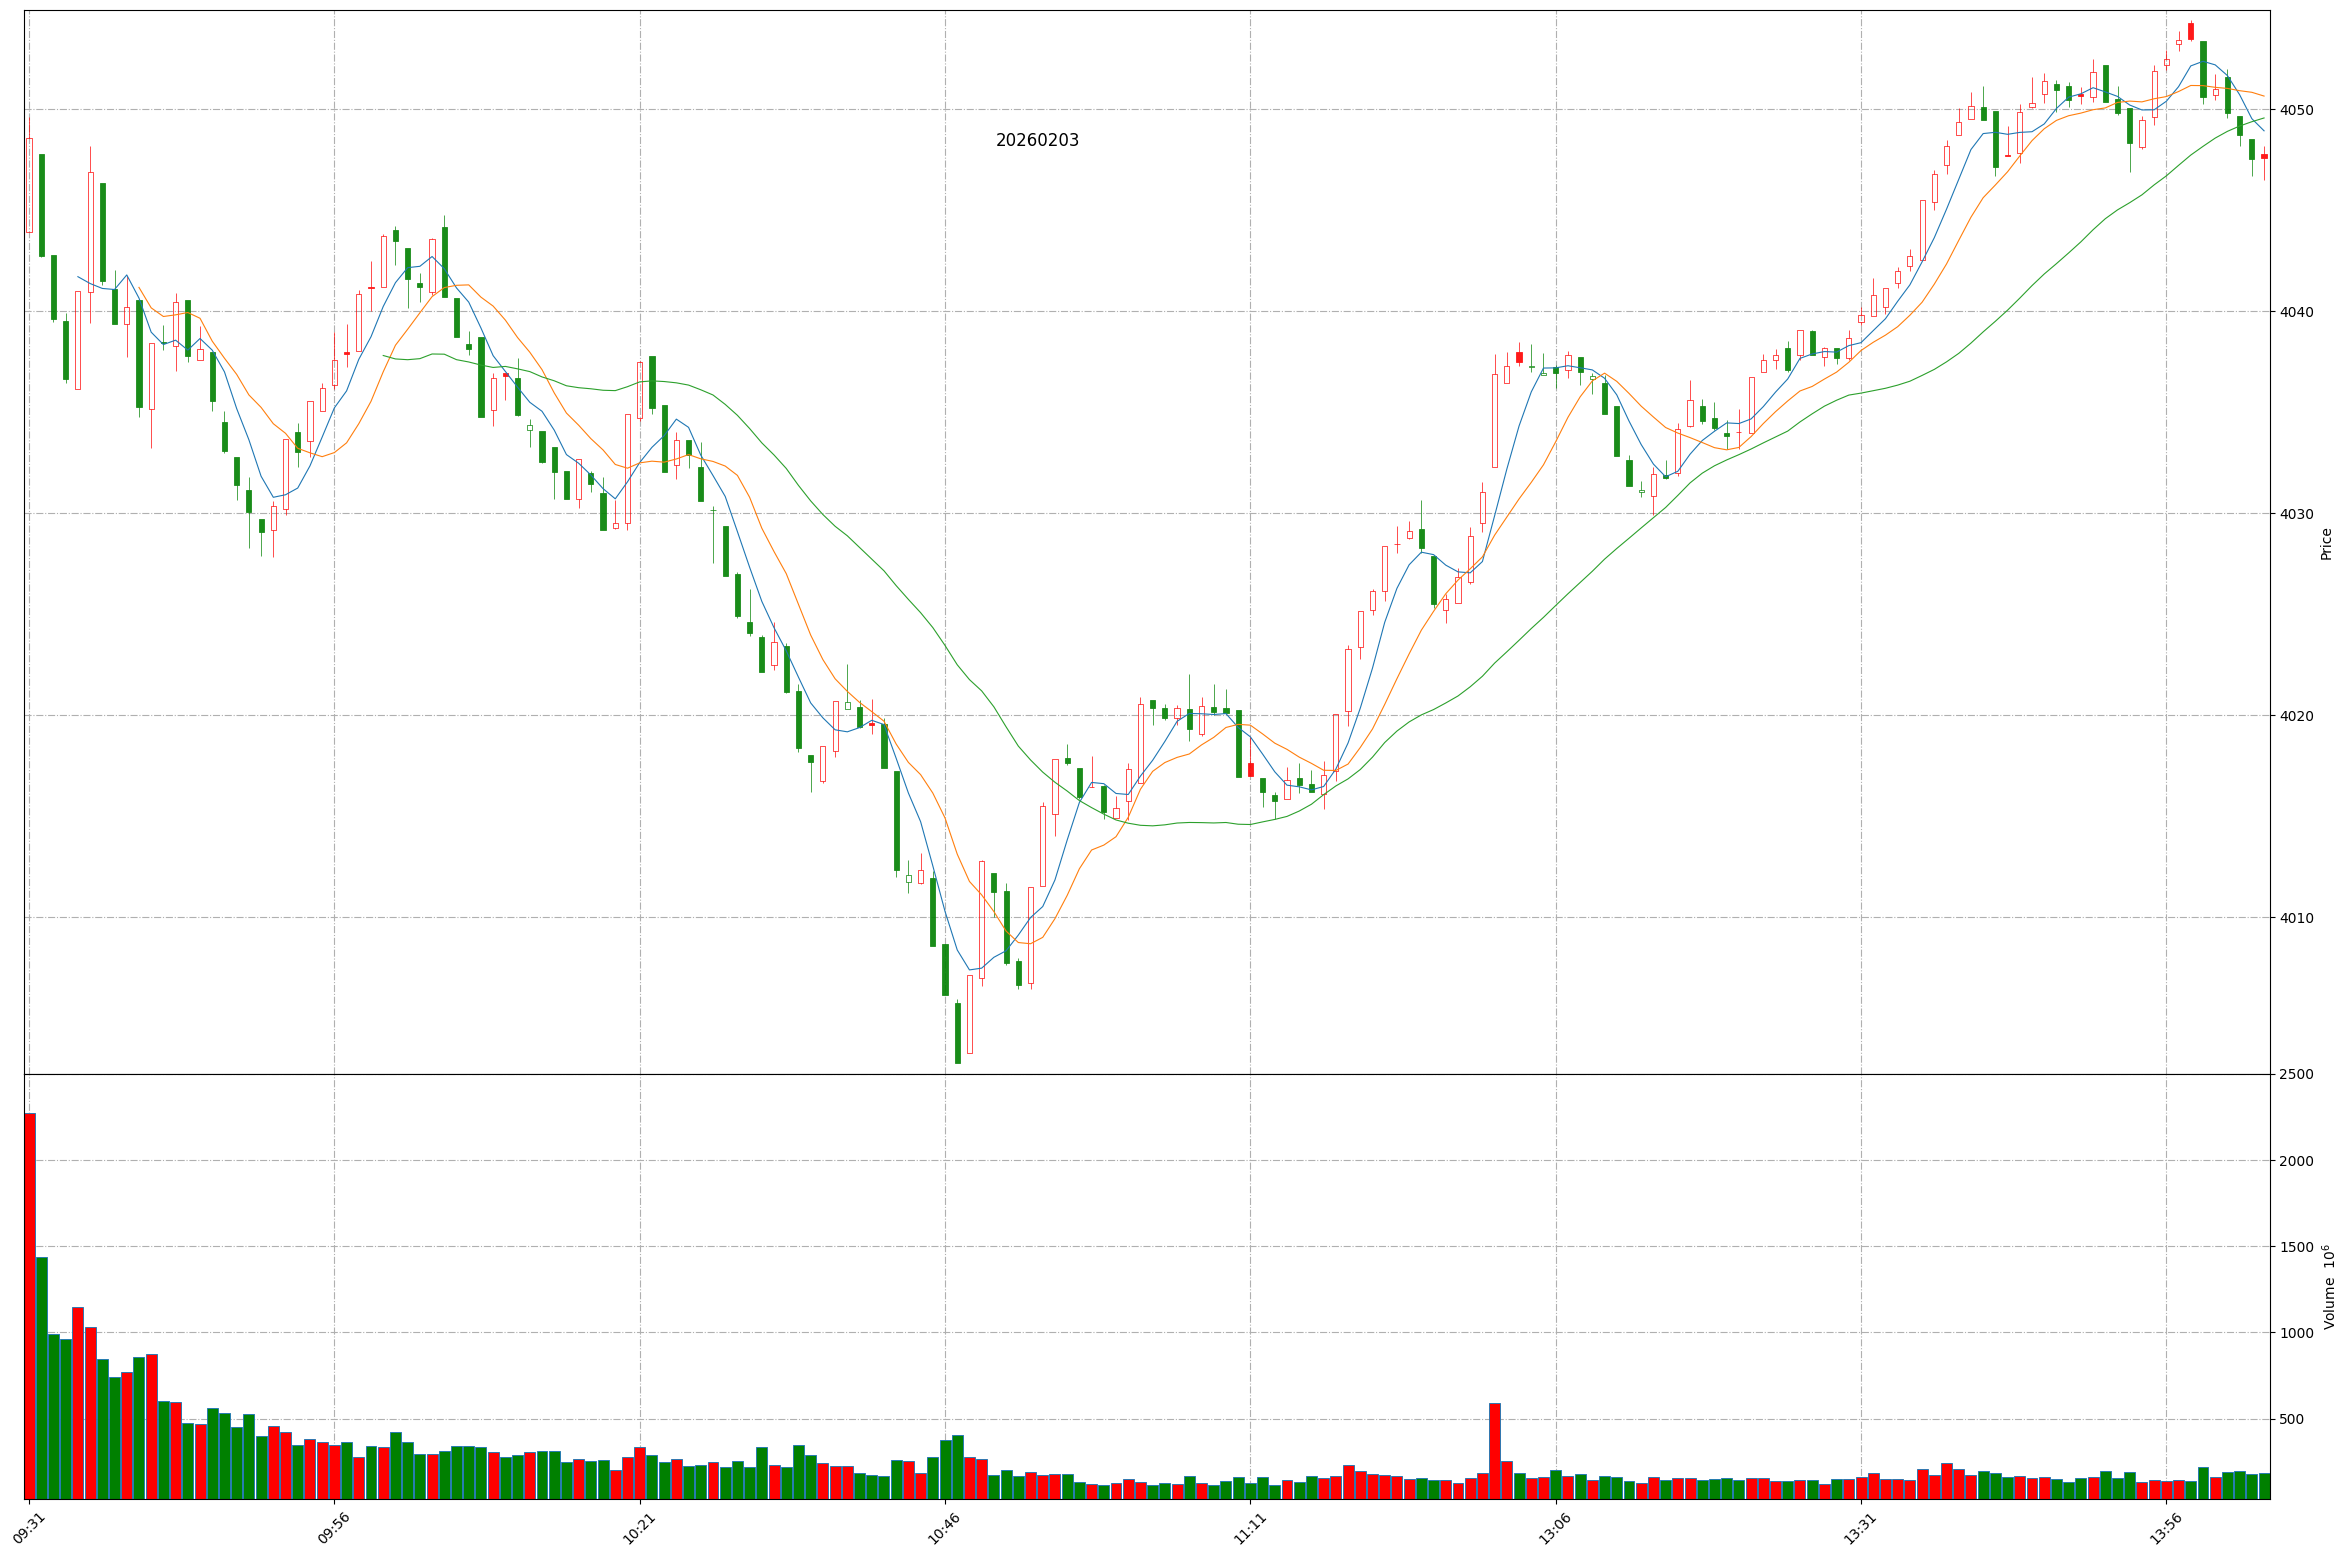
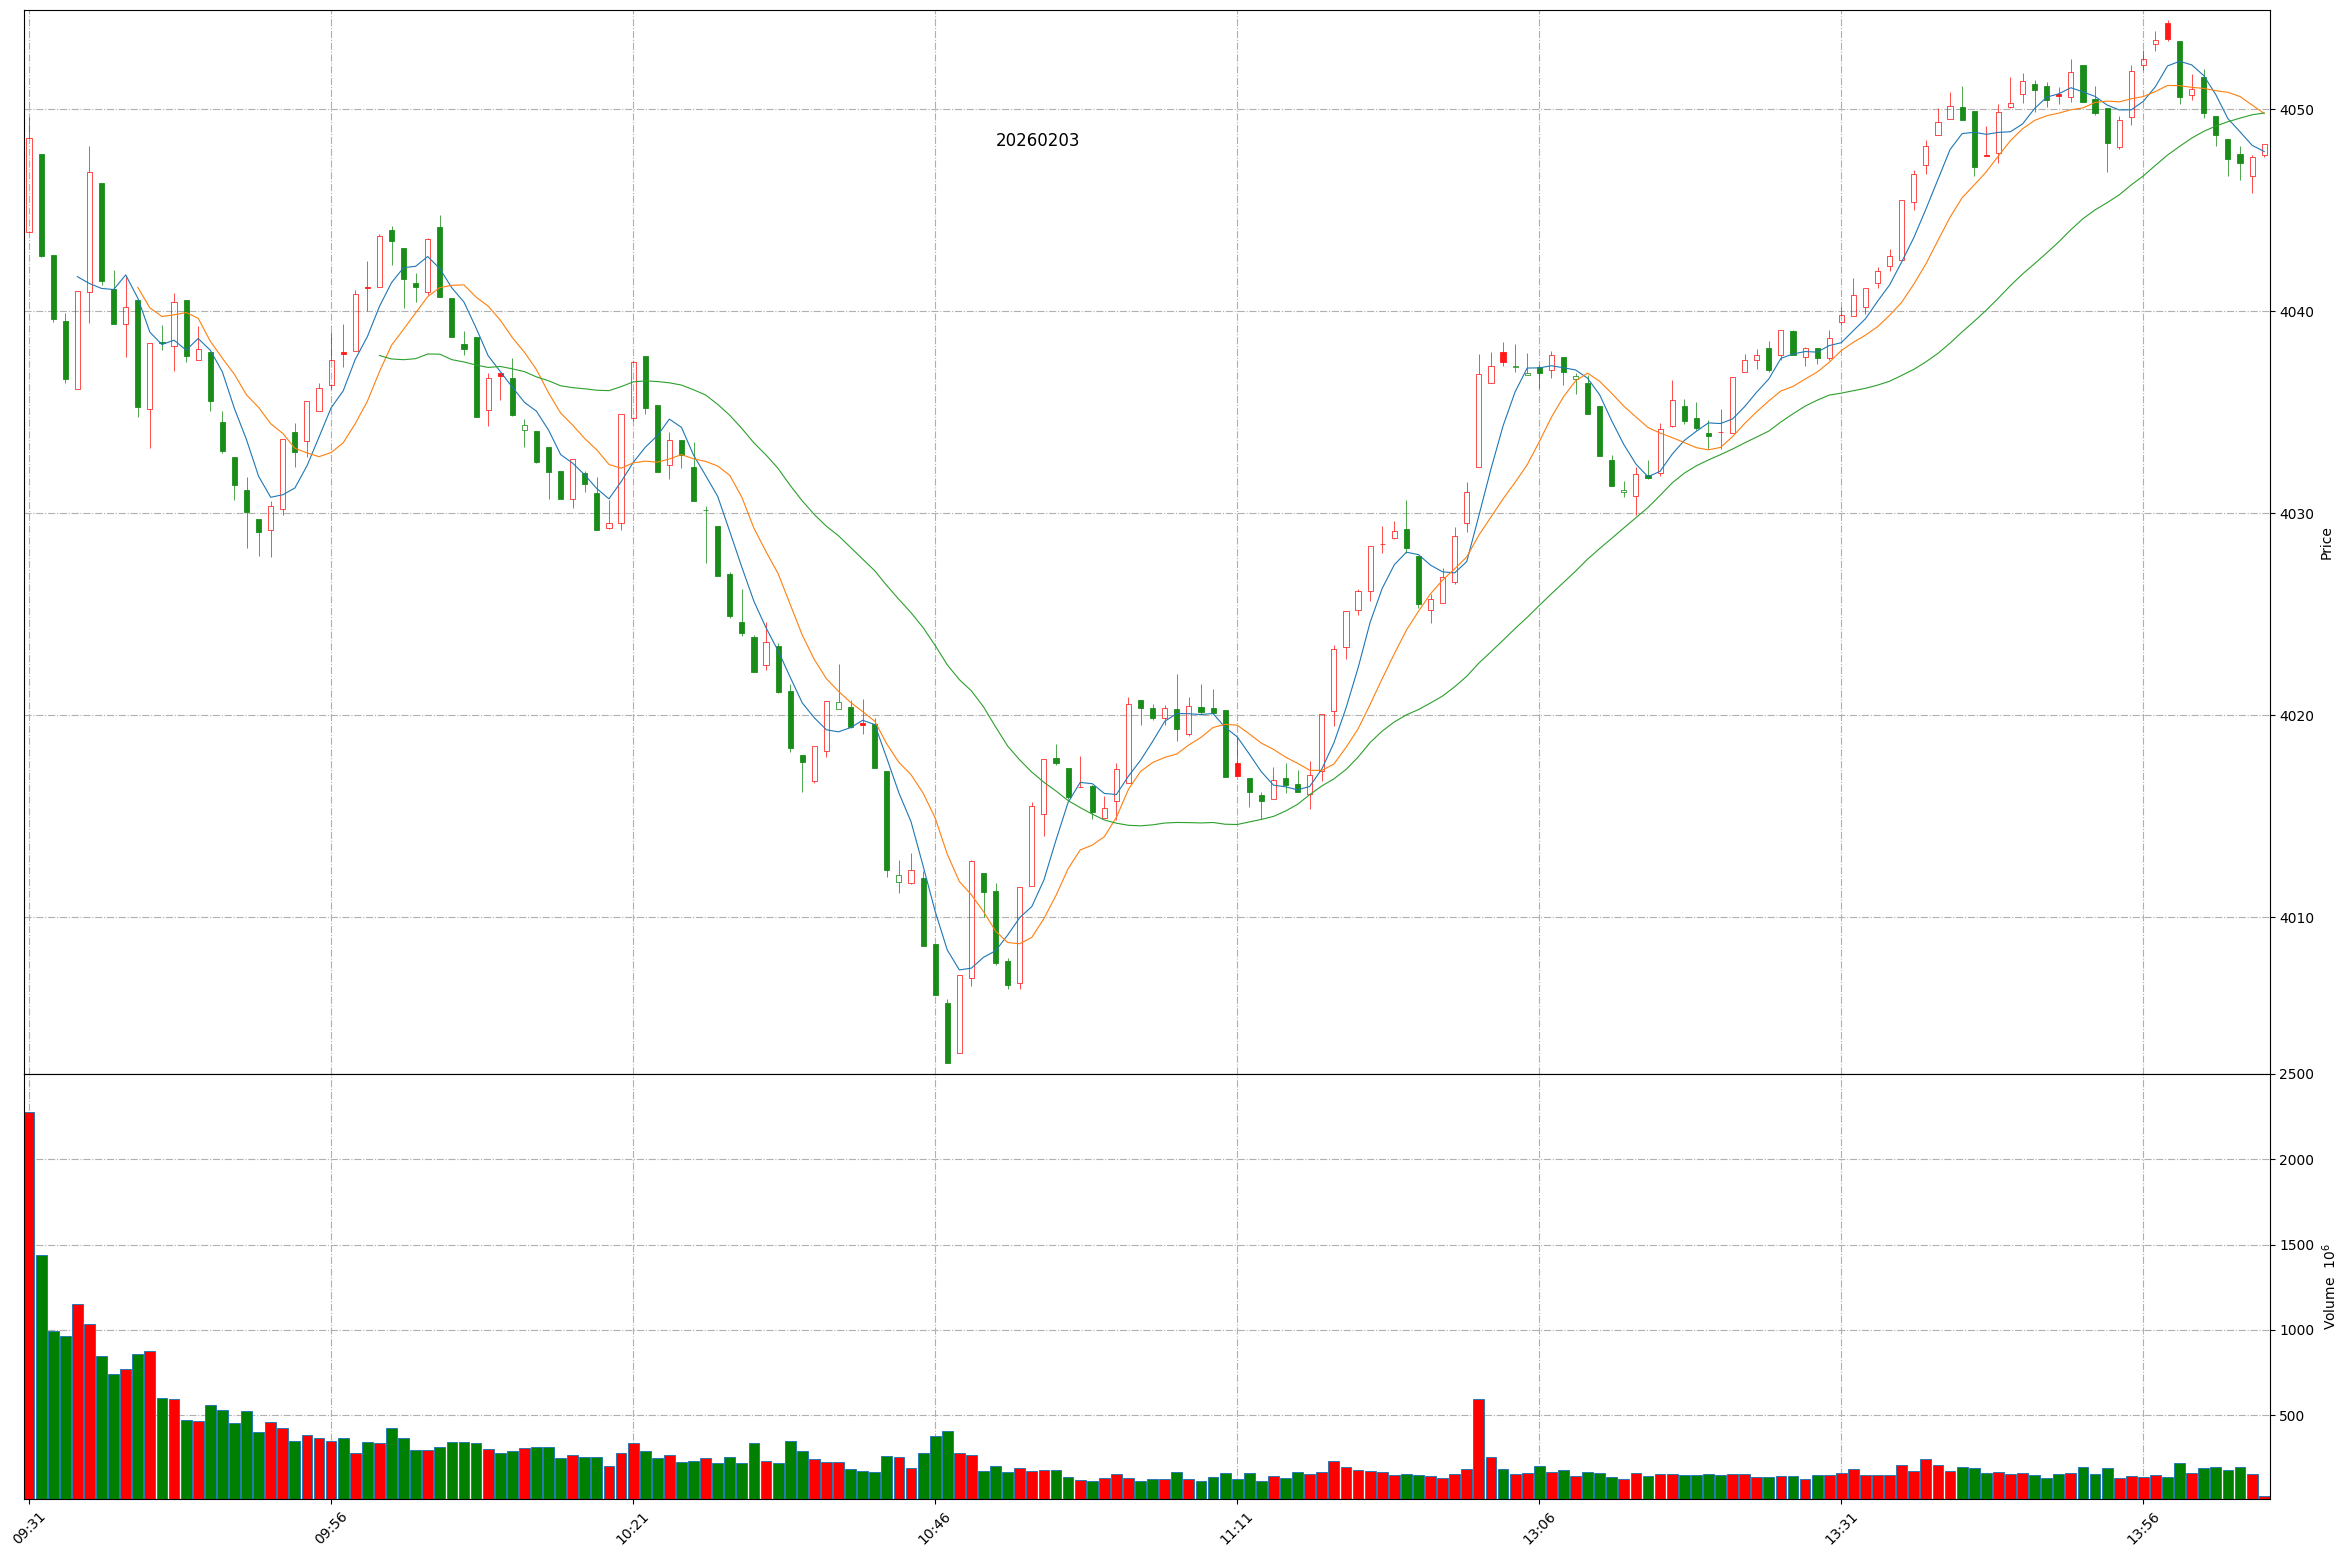
Github action update at 2026-02-03 14:05:31.

diff --git a/README.md b/README.md
@@ -1,11 +1,11 @@
 
 # Daily-A-share-market-quotes 每日 A 股指数（5min 更新）- 20260203
 
-### 上证指数 20260203 14:4
+### 上证指数 20260203 14:5
 ![](./fig/2026/2/20260203-sh000001.png)
 
-### 深证成指 20260203 14:4
+### 深证成指 20260203 14:5
 ![](./fig/2026/2/20260203-sz399001.png)
 
-### 北证50 20260203 14:4
+### 北证50 20260203 14:5
 ![](./fig/2026/2/20260203-bj899050.png)
